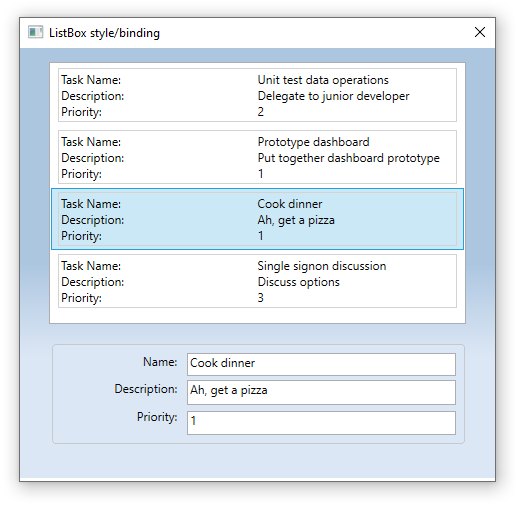
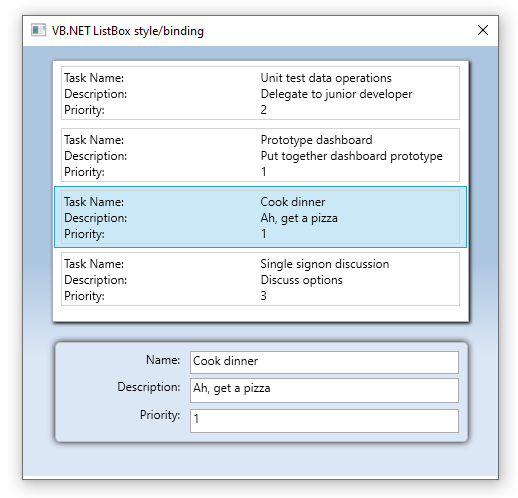
Added slight shadows to controls.

Changed region(s): [[0.031, 0.0301, 0.9612, 0.994]]

diff --git a/WpfAppExample1/ListWindow1.xaml b/WpfAppExample1/ListWindow1.xaml
@@ -44,6 +44,11 @@
 
         <DataTemplate x:Key="CurrentDetailsTemplate"  DataType="classes:TaskItem">
             <Border  Background="#DCE7F5" BorderBrush="Silver" CornerRadius="4,4,4,4" Width="Auto" Height="100" Margin="32,20,30,20"  BorderThickness=".85" Padding="8">
+                <Border.Effect>
+                    <DropShadowEffect BlurRadius="10" 
+                                      ShadowDepth="0" 
+                                      Color="Black"/>
+                </Border.Effect>
                 <Grid>
                     <Grid.RowDefinitions>
                         <RowDefinition Height="28*"/>
@@ -81,6 +86,11 @@
         <StackPanel Grid.RowSpan="2" Grid.ColumnSpan="2" Margin="0,0,0,3">
 
             <ListBox x:Name="TaskListBox" HorizontalAlignment="Left" Height="262" Margin="29,14,0,0" VerticalAlignment="Top" Width="417" HorizontalContentAlignment="Stretch" IsSynchronizedWithCurrentItem="True" ItemTemplate="{StaticResource ListBoxTaskTemplate}" ItemsSource="{Binding TaskItemsList, Mode=TwoWay, UpdateSourceTrigger=PropertyChanged}">
+                
+                <ListBox.Effect>
+                    <DropShadowEffect ShadowDepth="2"/>
+                </ListBox.Effect>
+
                 <ListBox.ItemContainerStyle>
 
                     <Style TargetType="{x:Type ListBoxItem}">

diff --git a/WpfAppExample2/ListWindow1.xaml b/WpfAppExample2/ListWindow1.xaml
@@ -43,6 +43,11 @@
 
         <DataTemplate x:Key="CurrentDetailsTemplate"  DataType="classes:TaskItem">
             <Border  Background="#DCE7F5" BorderBrush="Silver" CornerRadius="4,4,4,4" Width="Auto" Height="100" Margin="32,20,30,20"  BorderThickness=".85" Padding="8">
+                <Border.Effect>
+                    <DropShadowEffect BlurRadius="10" 
+                                      ShadowDepth="0" 
+                                      Color="Black"/>
+                </Border.Effect>
                 <Grid>
                     <Grid.RowDefinitions>
                         <RowDefinition Height="28*"/>
@@ -83,6 +88,11 @@
                      VerticalAlignment="Top" Width="417" HorizontalContentAlignment="Stretch" 
                      IsSynchronizedWithCurrentItem="True" 
                      ItemTemplate="{StaticResource ListBoxTaskTemplate}" ItemsSource="{Binding TaskItemsList, Mode=TwoWay, UpdateSourceTrigger=PropertyChanged}">
+
+                <ListBox.Effect>
+                    <DropShadowEffect ShadowDepth="2"/>
+                </ListBox.Effect>
+
                 <ListBox.ItemContainerStyle>
 
                     <Style TargetType="{x:Type ListBoxItem}">
